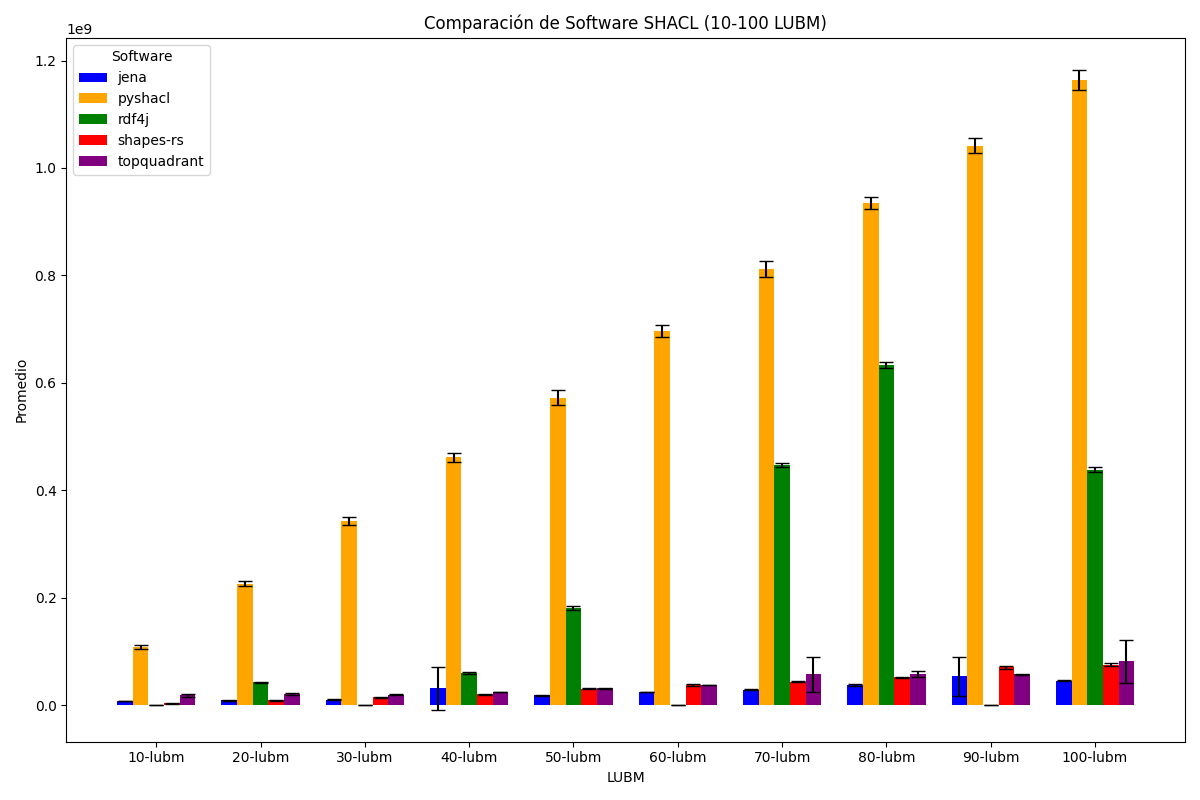
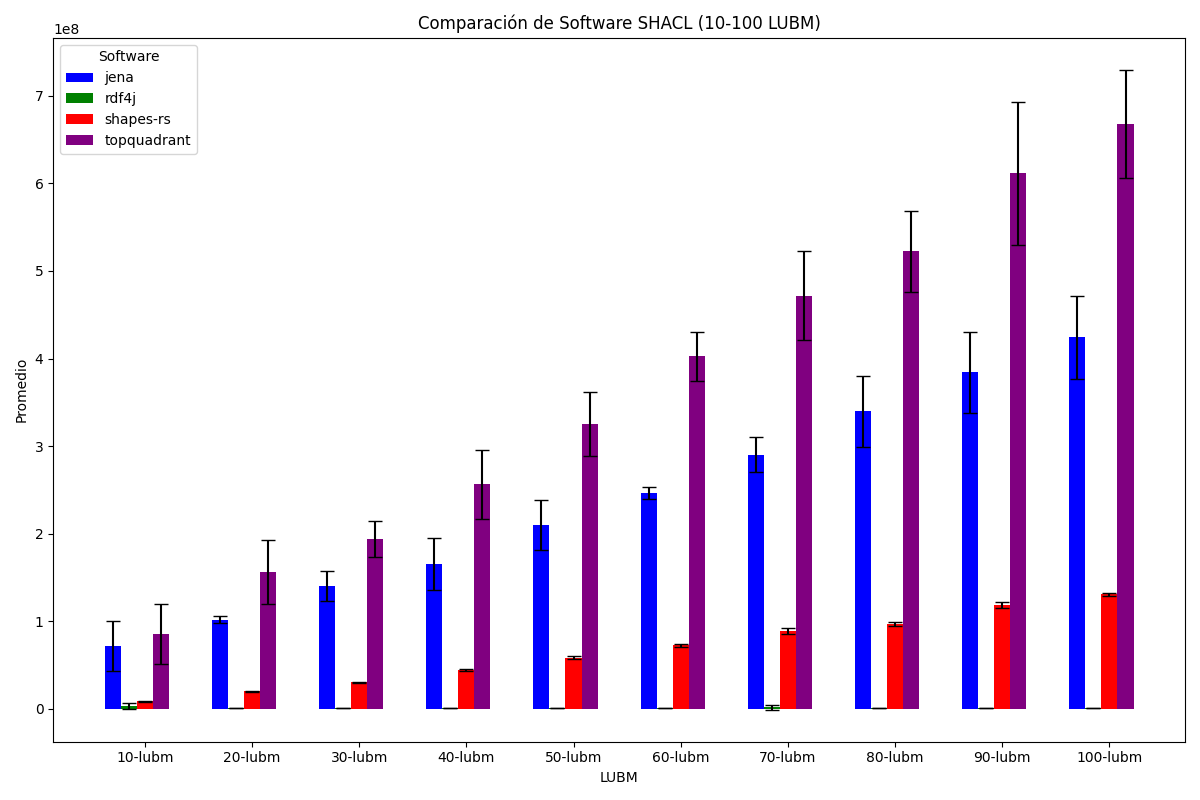
improvements

diff --git a/rdf4j/src/main/java/com/weso/rdf4j/App.java b/rdf4j/src/main/java/com/weso/rdf4j/App.java
@@ -6,64 +6,66 @@ import org.eclipse.rdf4j.repository.sail.SailRepositoryConnection;
 import org.eclipse.rdf4j.rio.RDFFormat;
 import org.eclipse.rdf4j.sail.memory.MemoryStore;
 import org.eclipse.rdf4j.sail.shacl.ShaclSail;
+import org.eclipse.rdf4j.sail.shacl.ShaclValidator;
 
 import com.opencsv.CSVWriter;
 
-import java.io.FileInputStream;
 import java.io.IOException;
 import java.io.InputStream;
+import java.io.FileInputStream;
 import java.io.FileWriter;
 import java.util.ArrayList;
 import java.util.List;
 
 public class App {
-    private static final int[] UNIVERSITIES = { 10, 20, 30, 40, 50, 60, 70, 80, 90, 100 };
-	private static final int ITERS = 10;
+    // private static final int[] UNIVERSITIES = { 10, 20, 30, 40, 50, 60, 70, 80, 90, 100 };
+    private static final int[] UNIVERSITIES = { 100 };
+	private static final int ITERS = 1;
 
     public static void main(String[] args) throws IOException {
         List<Double> times = new ArrayList<>();
         List<String[]> ans = new ArrayList<>();
 
-        ShaclSail shaclSail = new ShaclSail(new MemoryStore());
-        SailRepository sailRepository = new SailRepository(shaclSail);
-        sailRepository.init();
+        for (int university: UNIVERSITIES) {
+            times = new ArrayList<>();
 
-        try (SailRepositoryConnection connection = sailRepository.getConnection()) {
-            connection.begin();
-            InputStream shapesFile = new FileInputStream("/home/angel/shacl-validation-benchmark/data/lubm.ttl");
-            connection.add(shapesFile, "", RDFFormat.TURTLE, RDF4J.SHACL_SHAPE_GRAPH);
-            connection.commit();
-
-            for (int university: UNIVERSITIES) {
-                times = new ArrayList<>();
-                
-                connection.begin();
-                String file = String.format("/home/angel/shacl-validation-benchmark/data/%d-lubm.ttl", university);
-                InputStream graphFile = new FileInputStream(file);
-                connection.add(graphFile, "", RDFFormat.TURTLE);
-                connection.commit(); // avoid cold starts
-
-                for (int i = 0; i < ITERS; i++) {
-                    long start = System.nanoTime();
+            for (int i = 0; i < ITERS; i++) {
+                ShaclSail shaclSail = new ShaclSail(new MemoryStore());
+                SailRepository shacSailRepository = new SailRepository(shaclSail);
+                shacSailRepository.init();
+        
+                try (SailRepositoryConnection connection = shacSailRepository.getConnection()) {
                     connection.begin();
-                    connection.commit();
-                    long finish = System.nanoTime();
-                    times.add((double) (finish - start));
+                    InputStream shapesFile = new FileInputStream("/home/angel/shacl-validation-benchmark/data/lubm.ttl");
+                    connection.add(shapesFile, "", RDFFormat.TURTLE, RDF4J.SHACL_SHAPE_GRAPH);
+                }
+        
+                ShaclSail graphShail = new ShaclSail(new MemoryStore());
+                SailRepository graphSailRepository = new SailRepository(shaclSail);
+                graphSailRepository.init();
+
+                try (SailRepositoryConnection connection = graphSailRepository.getConnection()) {
+                    connection.begin();
+                    String file = String.format("/home/angel/shacl-validation-benchmark/data/%d-lubm.ttl", university);
+                    InputStream graphFile = new FileInputStream(file);
+                    connection.add(graphFile, "", RDFFormat.TURTLE);
                 }
 
-                connection.begin();
-                connection.clear();
-                connection.commit();
-
-                String[] record = { 
-                    String.format("%f", times.stream().mapToDouble(d -> d).average().orElse(0.0)),
-                    String.format("%f", calculateStandardDeviation(times)),
-                    String.format("%d-lubm", university),
-                    "rdf4j"
-                };
-                ans.add(record);
+                long start = System.nanoTime();
+                ShaclValidator.validate(shaclSail, graphShail);
+                long finish = System.nanoTime();
+                times.add((double) (finish - start));
             }
+
+            String[] record = { 
+                String.format("%f", times.stream().mapToDouble(d -> d).average().orElse(0.0)),
+                String.format("%f", calculateStandardDeviation(times)),
+                String.format("%d-lubm", university),
+                "rdf4j"
+            };
+            ans.add(record);
         }
+        
 
         try (CSVWriter writer = new CSVWriter(
             new FileWriter("/home/angel/shacl-validation-benchmark/results/rdf4j.csv"),

diff --git a/shapes-rs/src/main.rs b/shapes-rs/src/main.rs
@@ -3,7 +3,10 @@ use std::time::Instant;
 
 use clap::Parser;
 use csv::Writer;
-use shacl_validation::validate::{GraphValidator, Mode, Validator};
+use shacl_validation::{
+    store::ShaclDataManager,
+    validate::{GraphValidator, ShaclValidationMode, Validator},
+};
 use srdf::RDFFormat;
 use statistical::{mean, standard_deviation};
 
@@ -45,22 +48,34 @@ struct Cli {
 
 fn main() -> Result<()> {
     let cli = Cli::parse();
+
     let shapes = Path::new(&cli.shapes);
+    let schema = match ShaclDataManager::load(shapes, RDFFormat::Turtle, None) {
+        Ok(schema) => schema,
+        Err(_) => return Err("Error parsing the SHACL shapes"),
+    };
+
     let mut ans = Vec::new();
 
     for data in &cli.data {
         let mut times = Vec::new();
         let data = Path::new(data);
 
-        let validator = match GraphValidator::new(data, RDFFormat::Turtle, None, Mode::Default) {
+        let validator = match GraphValidator::new(
+            data,
+            RDFFormat::Turtle,
+            None,
+            ShaclValidationMode::Default,
+        ) {
             Ok(validator) => validator,
             Err(_) => return Err("Error creating the Validator"),
         };
 
-        let _ = validator.validate(shapes, RDFFormat::Turtle); // avoid cold starts
+        let _ = validator.validate(schema.clone()); // avoid cold starts
         for _ in 0..cli.iterations {
+            let schema = schema.clone();
             let before = Instant::now();
-            let _ = validator.validate(shapes, RDFFormat::Turtle);
+            let _ = validator.validate(schema);
             times.push(before.elapsed().as_nanos() as f64);
         }
 

diff --git a/plot/plot.py b/plot/plot.py
@@ -17,7 +17,7 @@ def plot(df):
     # Definir colores para cada software
     colors = {
         'jena': 'blue',
-        'pyshacl': 'orange',
+        # 'pyshacl': 'orange',
         'rdf4j': 'green',
         'shapes-rs': 'red',
         'topquadrant': 'purple'
@@ -53,13 +53,13 @@ def plot(df):
 
 if __name__ == '__main__':
     jena = pd.read_csv('/home/angel/shacl-validation-benchmark/results/jena.csv', header=None, names=['mean', 'error', 'label', 'software'])
-    pyshacl = pd.read_csv('/home/angel/shacl-validation-benchmark/results/pyshacl.csv', header=None, names=['mean', 'error', 'label', 'software'])
+    # pyshacl = pd.read_csv('/home/angel/shacl-validation-benchmark/results/pyshacl.csv', header=None, names=['mean', 'error', 'label', 'software'])
     rdf4j = pd.read_csv('/home/angel/shacl-validation-benchmark/results/rdf4j.csv', header=None, names=['mean', 'error', 'label', 'software'])
     shapesrs = pd.read_csv('/home/angel/shacl-validation-benchmark/results/shapesrs.csv', header=None, names=['mean', 'error', 'label', 'software'])
     topquadrant = pd.read_csv('/home/angel/shacl-validation-benchmark/results/topquadrant.csv', header=None, names=['mean', 'error', 'label', 'software'])
 
     # Combinar los datasets en un solo DataFrame
-    df = pd.concat([jena, pyshacl, rdf4j, shapesrs, topquadrant])
+    df = pd.concat([jena, rdf4j, shapesrs, topquadrant])
 
     # Representamos
     plot(df)
